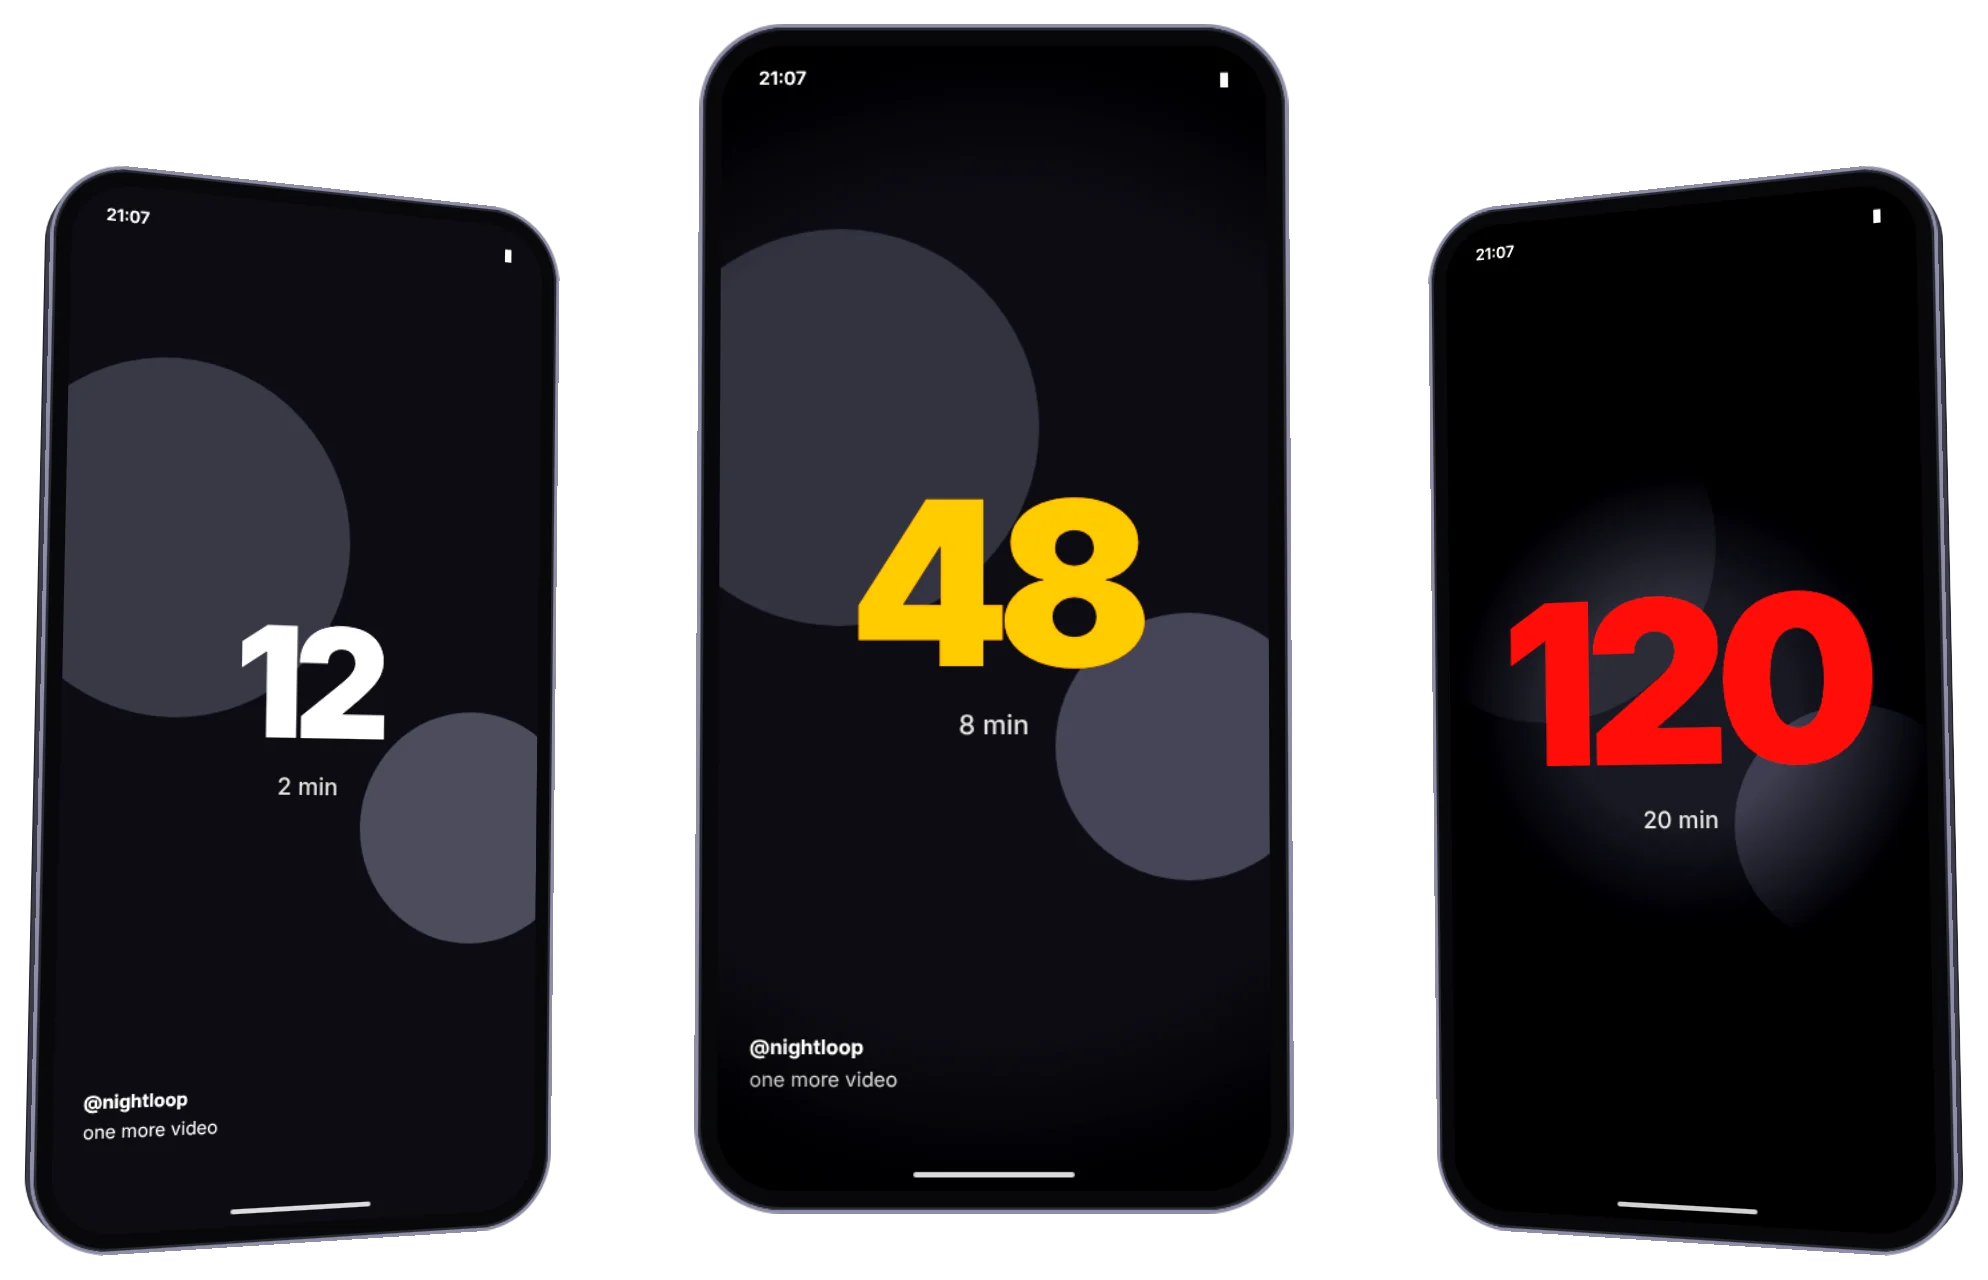
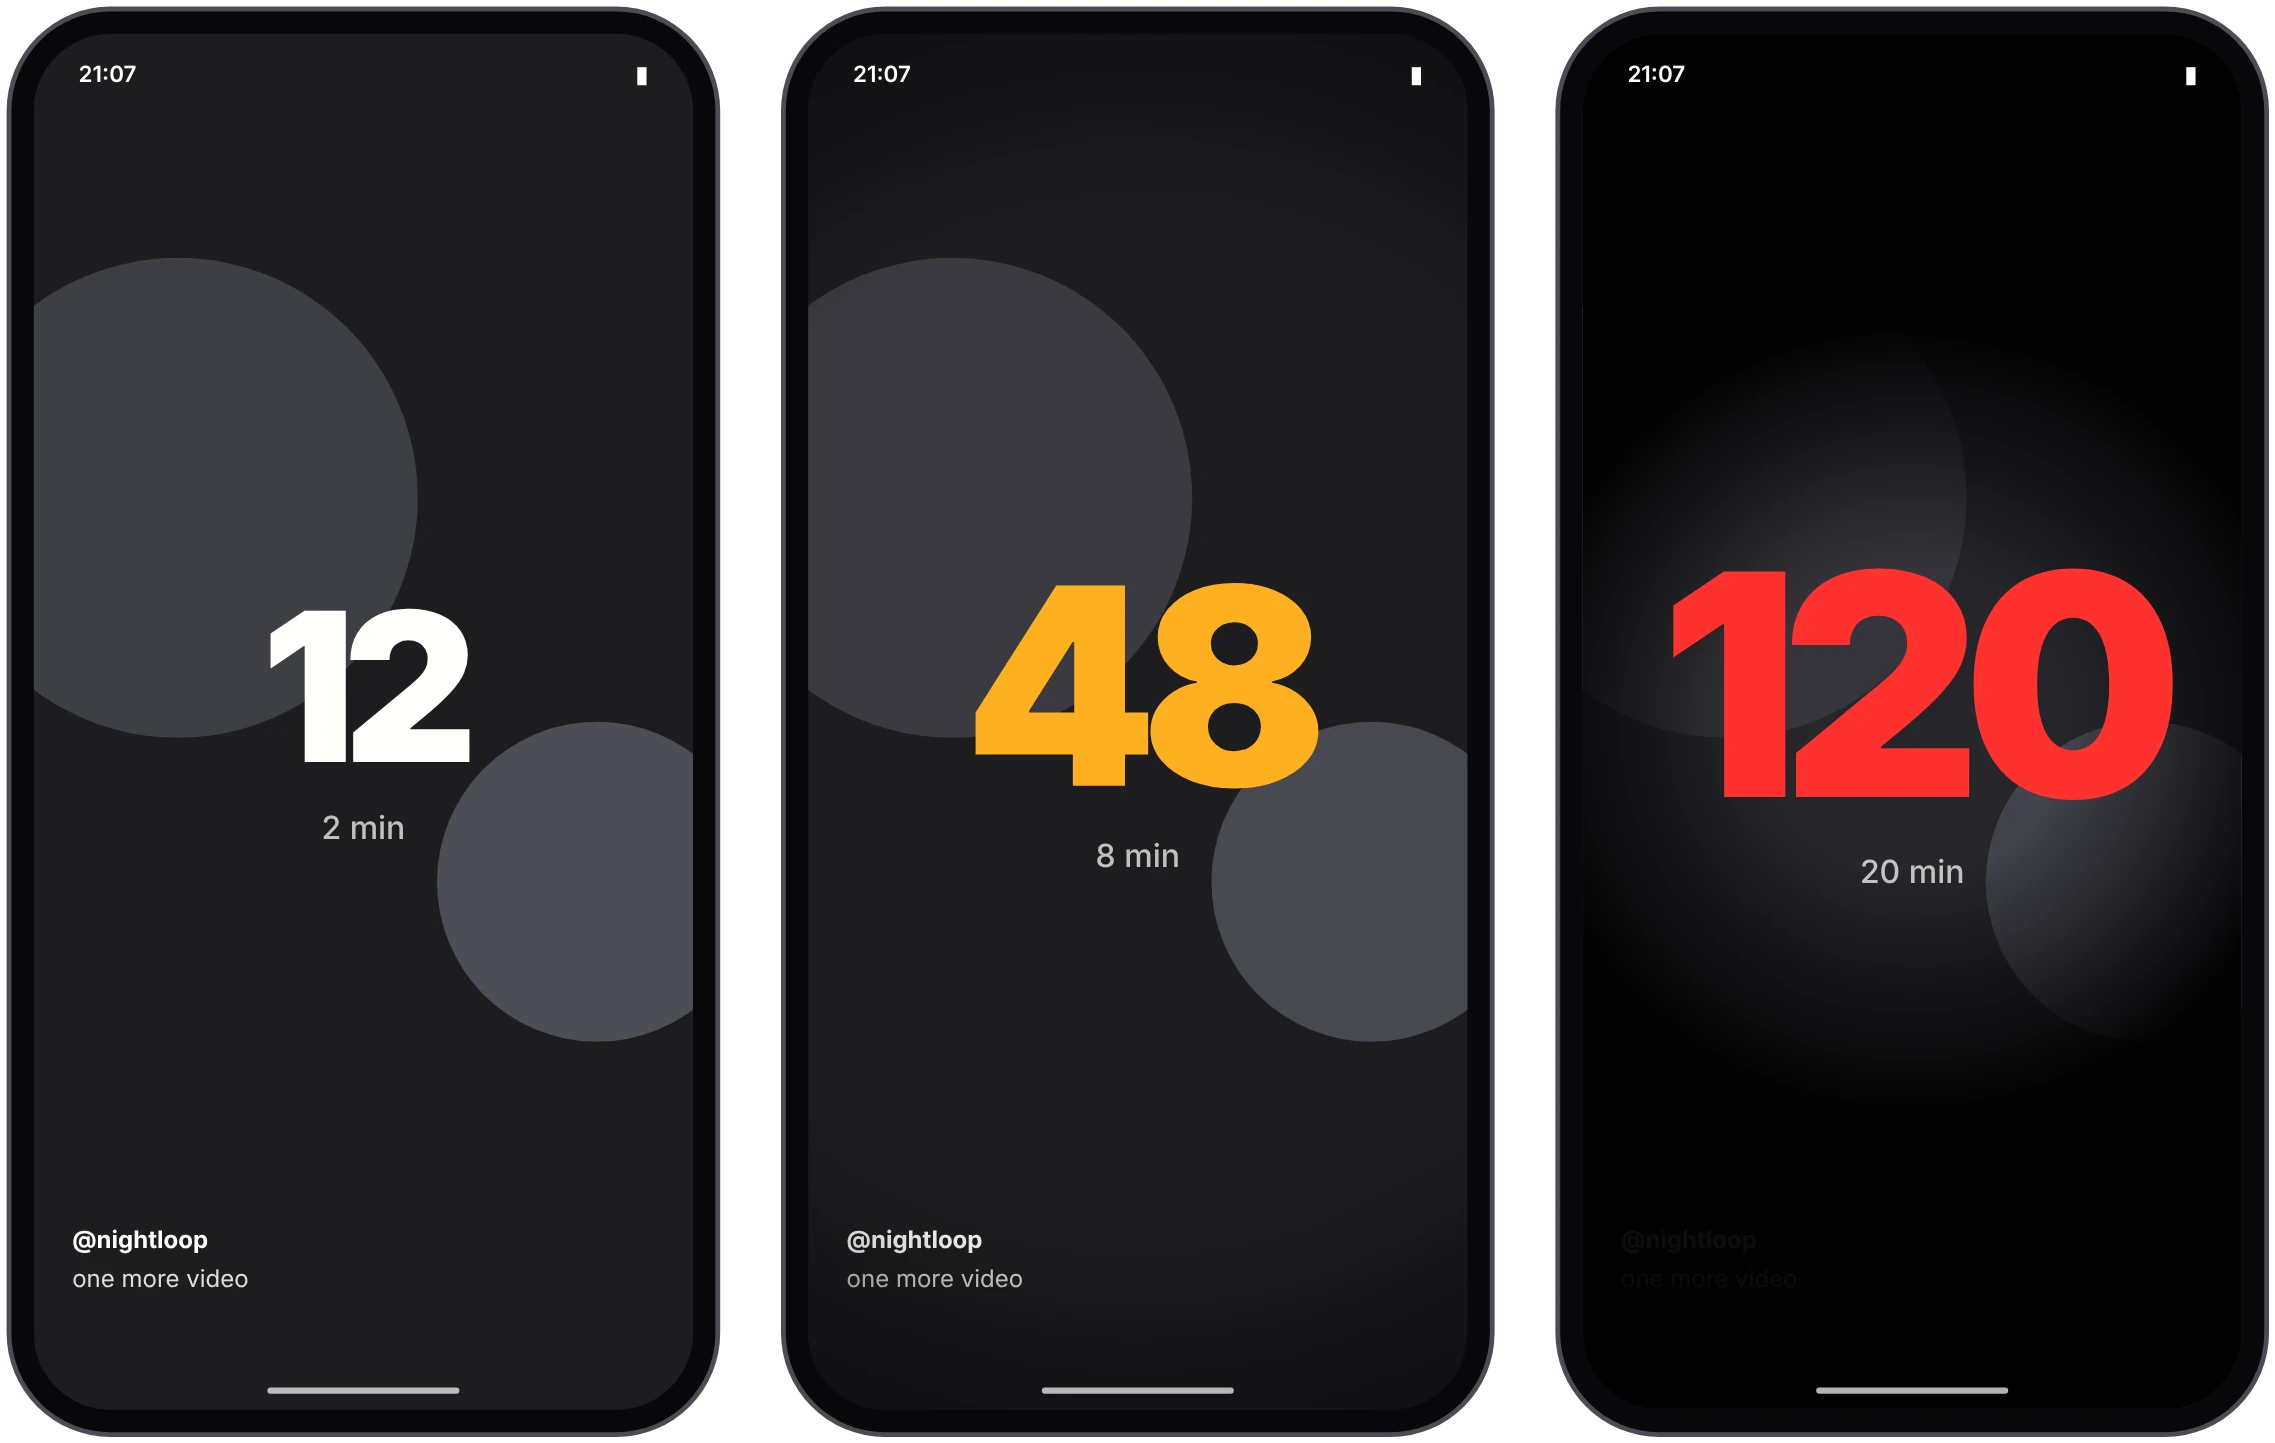
Flat 2D graphics at half width beside text, sharper renders
Claude-Session: https://claude.ai/code/session_01QRYSTdjr5vyv9CKVNuxw1m

diff --git a/index.html b/index.html
@@ -126,7 +126,7 @@
         <p>Tally shows the total over the apps you pick. It starts small and white, grows, turns amber, then red, and sends out a ring every 50th swipe. It is semi-transparent, and touches go through to the app underneath.</p>
         <p>The default shows swipes with the minutes small under them. You can switch to swipes only, or to time only. Time counts only while one of your apps is in front, and after a short break the count starts again. The exact steps and timing may change before release.</p>
       </div>
-      <img src="images/number.webp" alt="Three phones showing the Tally number at 12, 48 and 120 swipes, growing and changing from white to amber to red" width="1988" height="1280" loading="lazy">
+      <img src="images/number.webp" alt="Three phones showing the Tally number at 12, 48 and 120 swipes, growing and changing from white to amber to red" width="2275" height="1443" loading="lazy">
       <p class="cap">12, 48 and 120 swipes.</p>
     </section>
 
@@ -136,7 +136,7 @@
         <p>Edges go dark first. At the end only a small clear patch is left, about a quarter of the screen across. The veil is black, and the number is drawn above it, so the count stays easy to read.</p>
         <p>It does not block touches. They pass through to the app underneath, so there is no trap and no button to find. It draws only over the apps you picked, and it never touches system screens or calls.</p>
       </div>
-      <img src="images/veil.webp" alt="Three phones showing the veil at 20, 60 and 150 swipes, closing in from the edges" width="1748" height="1344" loading="lazy">
+      <img src="images/veil.webp" alt="Three phones showing the veil at 20, 60 and 150 swipes, closing in from the edges" width="2276" height="1443" loading="lazy">
       <p class="cap">20, 60 and 150 swipes.</p>
     </section>
 
@@ -184,7 +184,7 @@
         <p>Tally finds common social apps and turns them on for you. Turn on any other installed app, and turn off any you do not want counted. Browsers are off by default. If you turn one on, the whole browser counts, because Tally does not look at which site you are on.</p>
         <p>To count swipes in other apps, Tally uses Android's accessibility service, and it draws the number over them. Android asks you to turn this on yourself. Tally reads no text, messages or posts. It counts scroll events and the time an app is in front.</p>
       </div>
-      <img src="images/apps.webp" alt="Tally home screen and two Settings screens: overlay style, intensity, veil speed, obstruction max, grace swipes and watched apps" width="1945" height="1282" loading="lazy">
+      <img src="images/apps.webp" alt="Tally home screen and two Settings screens: overlay style, intensity, veil speed, obstruction max, grace swipes and watched apps" width="2275" height="1532" loading="lazy">
       <p class="cap">Home, and Settings. Drawn from the app design, not photos of a phone.</p>
     </section>
 

diff --git a/styles.css b/styles.css
@@ -289,21 +289,22 @@ h1 {
 .foot-links { display: flex; flex-wrap: wrap; gap: 6px 18px; margin-bottom: 14px; }
 [id] { scroll-margin-top: 20px; }
 .gal { padding-top: clamp(56px, 9vh, 104px); padding-bottom: clamp(24px, 4vh, 48px); border-top: 1px solid var(--line); }
-.gal-txt { display: grid; grid-template-columns: minmax(0, 1.1fr) minmax(0, 1fr); gap: 8px clamp(32px, 6vw, 96px); align-items: start; }
-.gal-txt h2 { font-size: clamp(2rem, 4.6vw, 3.6rem); font-weight: 900; letter-spacing: -.05em; line-height: 1; grid-row: span 2; max-width: 9em; }
-.gal-txt p { color: var(--muted); max-width: 32rem; }
+.gal { display: grid; grid-template-columns: minmax(0, 1fr) minmax(0, 1fr); column-gap: clamp(32px, 6vw, 96px); align-items: center; }
+.gal-txt { grid-column: 1; grid-row: 1 / span 2; }
+.gal-txt h2 { font-size: clamp(2rem, 3.8vw, 3.2rem); font-weight: 900; letter-spacing: -.05em; line-height: 1; margin-bottom: 20px; }
+.gal-txt p { color: var(--muted); max-width: 32rem; margin: 0 0 14px; }
+.gal img { grid-column: 2; grid-row: 1; display: block; width: 100%; height: auto; }
+.gal .cap { grid-column: 2; grid-row: 2; }
 .cap { font-size: .9rem; color: var(--muted); max-width: 40rem; margin: 6px 0 0; }
 @media (max-width: 900px) {
   .nav-links { order: 3; width: 100%; margin: 0 -6px; overflow-x: auto; }
-  .gal-txt { grid-template-columns: minmax(0, 1fr); }
-  .gal-txt h2 { grid-row: auto; }
+  .gal { grid-template-columns: minmax(0, 1fr); }
+  .gal-txt, .gal img, .gal .cap { grid-column: 1; grid-row: auto; }
+  .gal img { margin-top: 24px; }
 }
 @media (max-width: 480px) {
   .nav-links { justify-content: space-between; margin: 0 -8px; }
   .nav-links a { padding: 8px 9px; font-size: .88rem; }
-  .gal img { margin-left: -4px; width: calc(100% + 8px); max-width: none; }
 }
-.gal img { display: block; width: 100%; height: auto; }
 .w-square .w-num.t { bottom: 58px; }
 
-.gal img { margin-top: clamp(16px, 3vw, 40px); max-width: none; }
